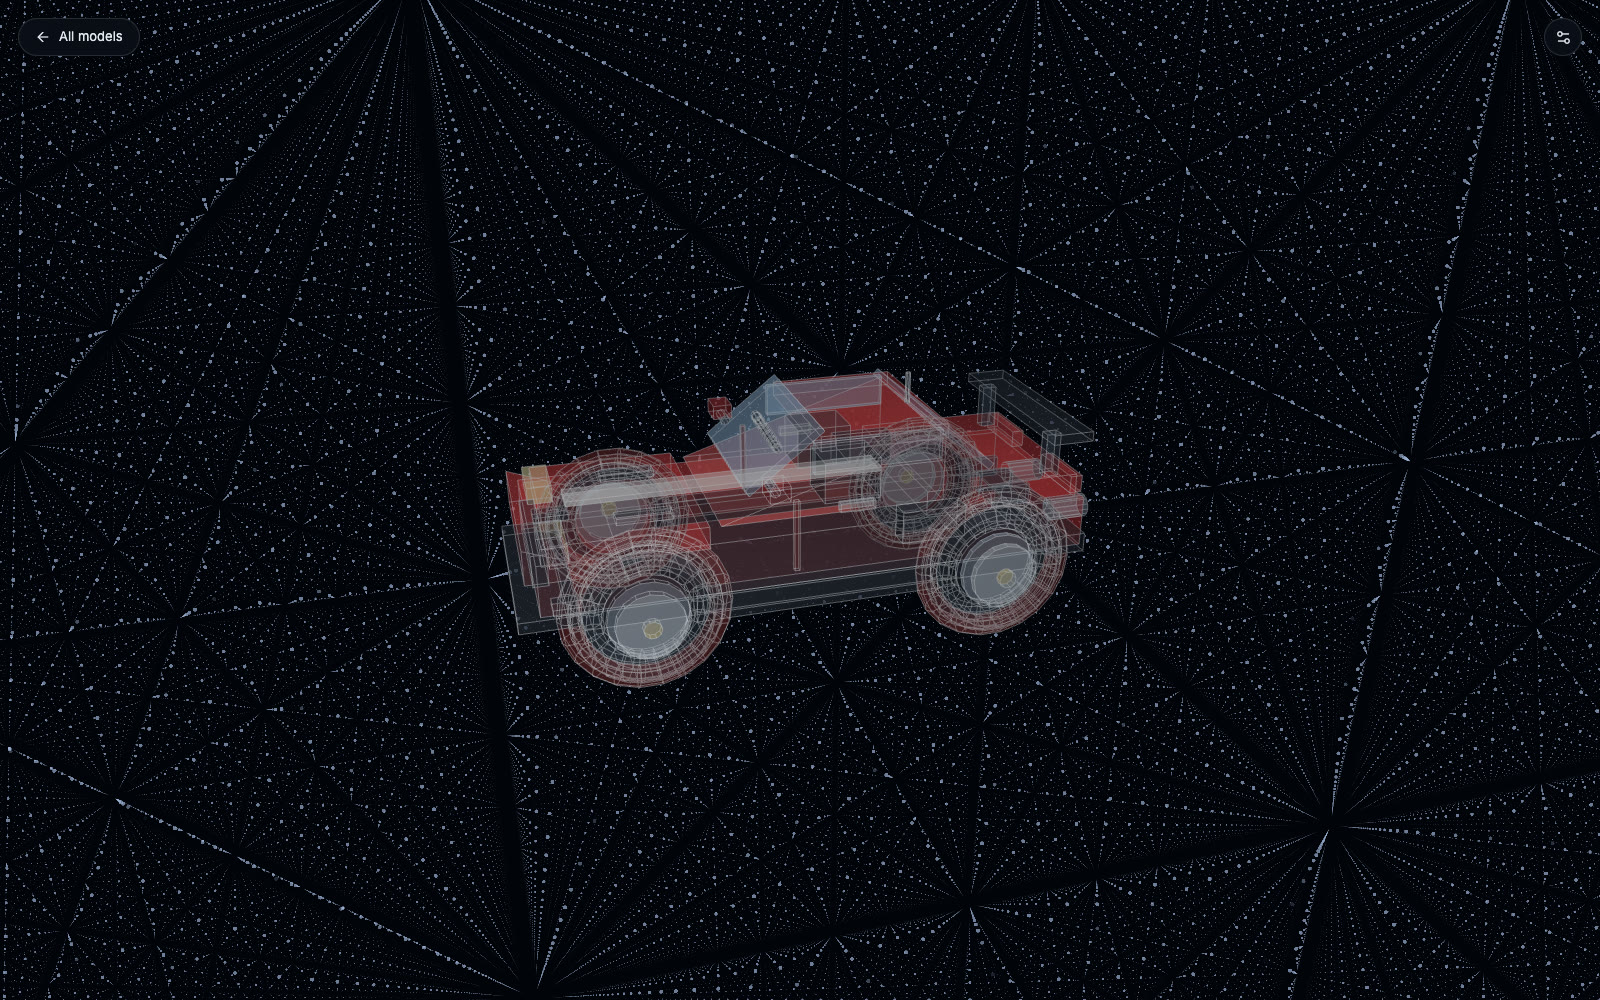
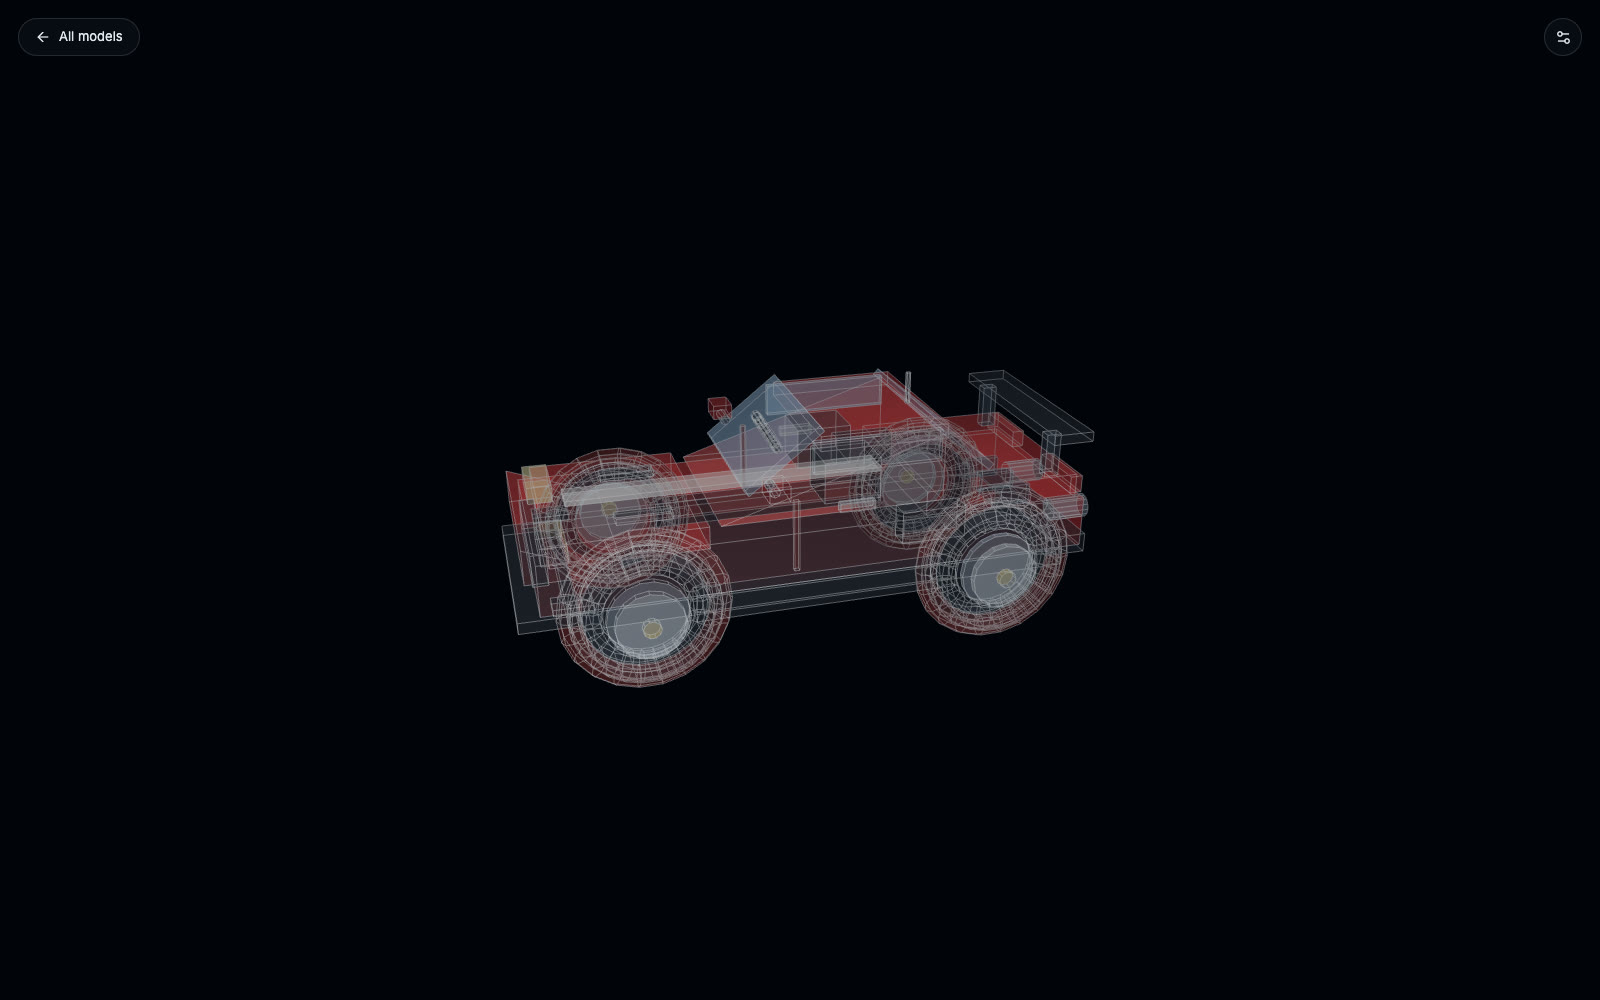
fix(gallery): open models on plain black
Space dots are off by default now; the lattice is one switch away. Thumbnails
re-shot to match.

diff --git a/src/gallery/GalleryApp.tsx b/src/gallery/GalleryApp.tsx
@@ -15,14 +15,14 @@ import { CATALOG, costLabel, modelUrl, thumbUrl, type GalleryItem } from "./cata
 
 const REPO = "https://github.com/rajkandula/vertex-3d-studio";
 
-// Models open as a solid surface with its edges, standing in the dot lattice — switch
-// Model dots on to see how the studio draws the object itself.
+// Models open as a solid surface with its edges, on plain black. Model dots show the object
+// as the studio draws it; Space dots add the surrounding lattice.
 const DEFAULT_VIEW: ViewSettings = {
   dots: false,
   mesh: true,
   meshOpacity: 0.45,
   wireframe: true,
-  field: true,
+  field: false,
   reasoning: false,
   detail: "normal",
   autoRotate: true,
